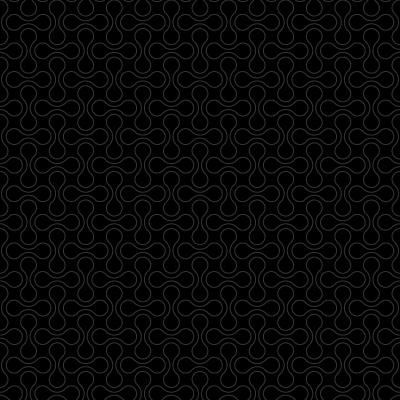
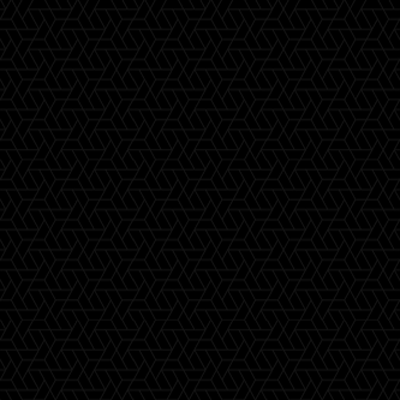
123

diff --git a/css/style.css b/css/style.css
@@ -7,7 +7,6 @@ body{
 	padding: 0;
 	background: white;
 	font-family: 'Roboto', sans-serif;
-	background-image: url('../photos/tlo.png');
 }
 
 .menu {
@@ -98,9 +97,10 @@ body{
 }
 
 .banner {
-	width: 1024px;
-	height: 576px;
+	width: 100%;
+	height: auto;
 	filter: blur(3px);
+	box-shadow: 0px 0px 15px black;
 }
 
 .main {
@@ -118,6 +118,7 @@ body{
 	height: 300px;
 	overflow: hidden;
 	margin-top: 86px;
+	background-image: url('../photos/tlo.png');
 }
 
 .hej {
@@ -139,4 +140,14 @@ body{
 	display: flex;
 	align-items: center;
 	justify-content: center;
+	background-image: url('../photos/tlo.png');
+	color: white;
+}
+
+.container2 {
+	display: flex;
+	align-items: center;
+	justify-content: center;
+	background-image: url('../photos/tlo-dark.png');
+	color: white;
 }

diff --git a/index.html b/index.html
@@ -23,8 +23,41 @@
 			<h1 class="hej">Witamy na stronie Walker's P&amp;I Design!</h1>
 	    </article>
 		<article class="container">
-			<div class="placeholder">
-				.afsk
+			<div>
+			<br>
+<br>
+<br>
+<br>
+<br>
+<br>
+<br>
+<br>
+<br>
+<br>
+<br>
+<br>
+<br>
+<br>
+
+			</div>
+		</article>
+		<article class="container2">
+			<div>
+			<br>
+<br>
+<br>
+<br>
+<br>
+<br>
+<br>
+<br>
+<br>
+<br>
+<br>
+<br>
+<br>
+<br>
+
 			</div>
 		</article>
     </section>
